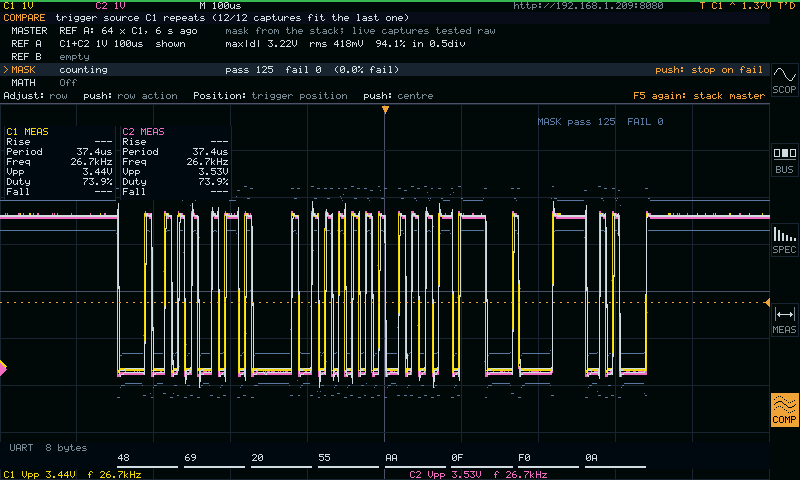
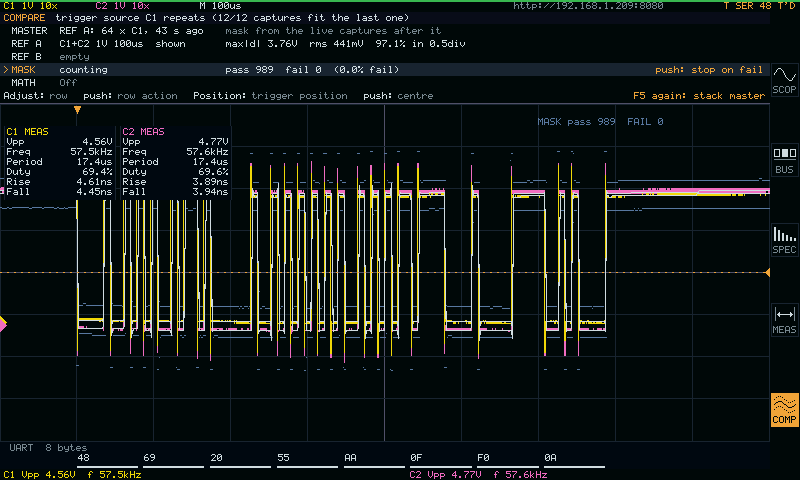
COMPARE pictures on the working master and mask; release notes 1.2: the COMPARE fix and the worker restart

diff --git a/docs/release-notes-1.2.md b/docs/release-notes-1.2.md
@@ -61,6 +61,12 @@ power-cycle, and the factory firmware is back.
   a huge step count turns the right way; a failed write of the agent's takeover state no longer
   takes the bus without the watchdog; four races in the agent (uploads, restore-factory, the
   watchdog's start, the status reads) are closed.
+* **COMPARE's master and mask on real signals.** The repeat test reads each capture as column
+  extremes, so a probe's ringing at an edge no longer makes a steady signal read as not repeating
+  (a 1 MHz square wave was refused a master), and it no longer judges the record's ends, where an
+  edge on the window's edge had no partner. A master's mask is built from the live raw captures
+  after it, as the MASK row builds one; the average stays REF A. A mask drawn around the average
+  failed every raw capture, whose ringing the averaging had flattened.
 * **One app, one path.** The app has no alternative capture modes, environment switches or
   diagnostic pages any more, and the stick carries no emergency app: what ships is the path the
   scope runs and the tests cover.
@@ -139,6 +145,9 @@ settings tab (the Help key), at the end of the web UI's status line and in `/api
   is named in a notice on the LCD and in the web UI's status line ("ADC fault: converter E2 not
   converting - restart the scope") and in `/api/status` (`adc_fault`). Restart the scope when it
   appears.
+* **Acquisition worker:** rarely (about once in seventy bus changes on the bench) the acquisition
+  worker stops answering while a stream starts; the agent sees the health signal go stale and
+  restarts the app, which is back with its settings within seconds.
 * **SCPI identity:** `*IDN?` answers as the factory firmware does, so Siglent scripts that check it
   keep working; the firmware's own version is on the SYS tab and in `/api/status`.
 * **Network security:** the web UI (8080), SCPI (VXI-11) and the agent's control port (5900) have
